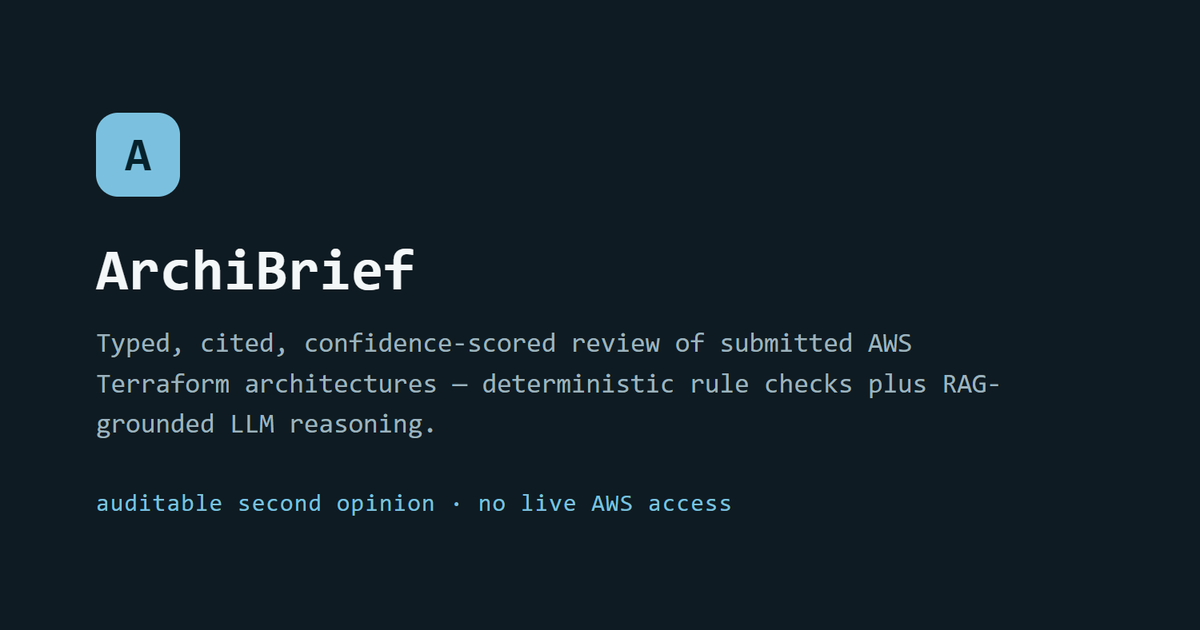
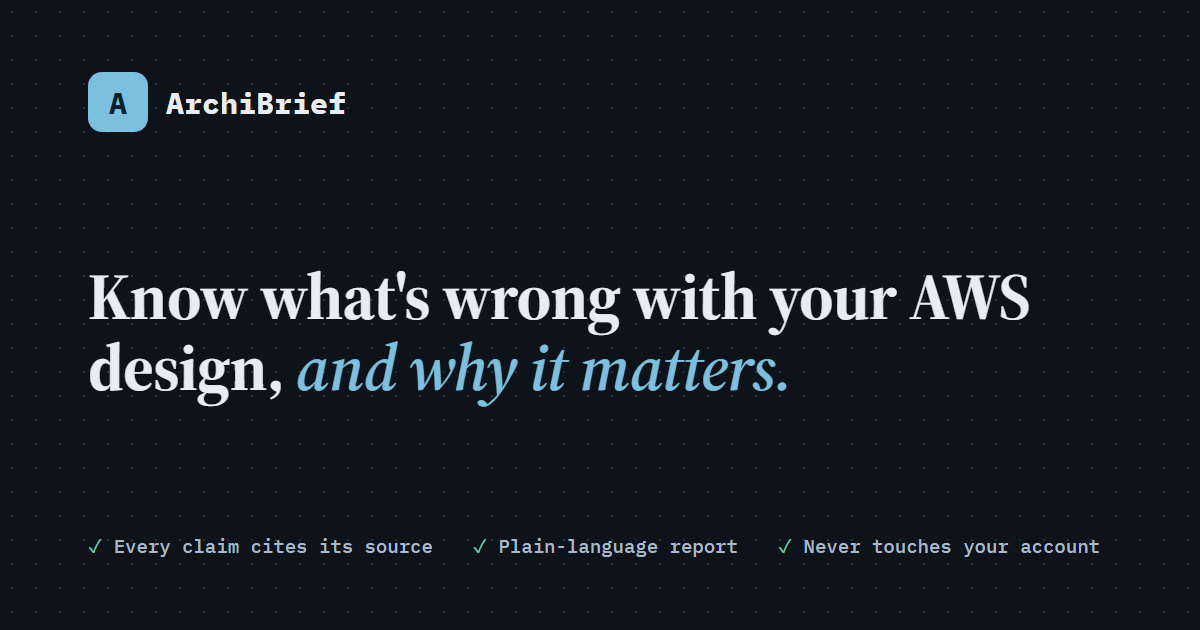
fix: bring header, metadata, social image, chat preview text and ADR-0050 up to date
- Header subtitle and page title/description match the new pitch and
  drop "auditable".
- New social preview image with the landing headline.
- The offline preview's chat no longer says no model is connected; it
  says answers there are prewritten and live questions get cited answers.
- ADR-0050 amendment: Sonnet 4.6 instead of Haiku 4.5, the 1,500-token
  cap, the $1/day budget counted as spend, measured cost, alarms
  deferred to public launch.

diff --git a/frontend/app/layout.tsx b/frontend/app/layout.tsx
@@ -26,14 +26,11 @@ const sourceSerif = Source_Serif_4({
   display: "swap",
 });
 
-// Intended public domain (archibrief.dev, registered 2026-09-08) - used
-// here even though DNS isn't wired to it yet (Work-Project-Issues-Log.md,
-// 2026-10-14) so OG/Twitter image URLs resolve correctly once it is,
-// without needing another metadata pass at publish time.
+// The public domain; OG/Twitter image URLs resolve against it.
 const SITE_URL = "https://archibrief.dev";
-const TITLE = "ArchiBrief · AWS architecture review";
+const TITLE = "ArchiBrief · AWS architecture review that explains why";
 const DESCRIPTION =
-  "Typed, cited, confidence-scored review of submitted AWS Terraform architectures.";
+  "Upload AWS Terraform and get a plain-language architecture review: what's exposed, what could fail and why it matters, with every claim cited to the code and AWS guidance.";
 
 export const metadata: Metadata = {
   metadataBase: new URL(SITE_URL),
@@ -44,7 +41,14 @@ export const metadata: Metadata = {
     description: DESCRIPTION,
     url: SITE_URL,
     siteName: "ArchiBrief",
-    images: [{ url: "/og-image.png", width: 1200, height: 630, alt: "ArchiBrief" }],
+    images: [
+      {
+        url: "/og-image.png",
+        width: 1200,
+        height: 630,
+        alt: "ArchiBrief: know what's wrong with your AWS design, and why it matters.",
+      },
+    ],
     type: "website",
   },
   twitter: {

diff --git a/frontend/components/report-questions.tsx b/frontend/components/report-questions.tsx
@@ -259,7 +259,7 @@ export function ReportQuestions({
             ? "Cited answers"
             : mode === "sample"
               ? "Sample answers"
-              : "Preview feature"}
+              : "Offline preview"}
         </span>
       </div>
 
@@ -433,7 +433,7 @@ function introText(mode: Mode, hasStored: boolean, loadError: string): string {
       ? "These answers were generated once from this sample review. Pick a question to read its cited answer. Live questions open with public reviews."
       : "Questions work on your own reviews. Live questions on sample reviews open with public reviews.";
   }
-  return "I can explain this report or translate its evidence. No model is connected yet; every preview answer stays linked to a typed finding.";
+  return "This is the offline preview: answers are written in advance and linked to this report's findings. On the live site, questions you ask are answered with citations.";
 }
 
 function ChatExchange({

diff --git a/frontend/components/app-header.tsx b/frontend/components/app-header.tsx
@@ -37,7 +37,7 @@ export function AppHeader({
           </span>
           <div>
             <strong>ArchiBrief</strong>
-            <span>Auditable AWS architecture review</span>
+            <span>Evidence-backed AWS architecture review</span>
           </div>
         </div>
         <div className="header-controls">

diff --git a/docs/adr/Work-Project-ADR-0050-Grounded-Chat-Build.md b/docs/adr/Work-Project-ADR-0050-Grounded-Chat-Build.md
@@ -3,7 +3,7 @@ title: "ADR 0050: How the Grounded Report Chat Is Built"
 type: decision
 tags: [adr, project, work-project, archibrief, chat, security, cost]
 created: "2026-10-15"
-updated: "2026-10-15"
+updated: "2026-10-17"
 status: accepted
 ---
 
@@ -170,6 +170,17 @@ public paid route without it would only be bounded by the global cap.
 scripts, a print stylesheet so Print → PDF works) with the findings and
 the conversation. Every value is escaped; no model text is ever inserted
 as HTML. The JSON export gains `chat_transcript`.
+
+## Amendment (2026-10-17, after the first live deploy)
+
+Running it live changed four things:
+
+- **Model (§8): Sonnet 4.6, not Haiku 4.5.** The Haiku 4.5 Marketplace subscription can't be completed for this account, so `CHAT_MODEL_ID` defaults to Sonnet 4.6, which the reviews already use (`b99f50c`). The model call's timeout is now sized after retrieval, up to 24 s, so a slow retrieval can't push the whole call past the Lambda limit.
+- **Output cap: 1,500 tokens, not 700.** The first live question failed with `answer_failed`: 700 tokens cut answers off mid-citation. Failed answers now log their failure type (`b36c251`).
+- **Budget (§5): $1.00/day, counted as spend.** The daily counter used to store the *remaining* budget, fixed at the first question of the day, so a budget change only took effect the next day. It now stores what was spent (`global#{day}#chat_spent_micro_usd`) and compares it with the current budget (`d3063b2`). Measured cost with Sonnet 4.6: 1.1–4.1 cents per question, about 1.9 cents typical with the review cached; 9–18 s per answer.
+- **Alarms (§9): deferred to public launch.** Fernando decided they aren't worth the IAM change while the chat is admin-only; the daily budget and kill switch still bound cost.
+
+Also live: boto3 bundled into `ask_question` for S3 Vectors, `chat_busy` on transaction conflicts, every paid-path call time-bounded (`8299a43`), and clearer suggested-question wording (`c8cb3e6`). The paid chat eval has not been run yet.
 
 ## Alternatives considered
 
